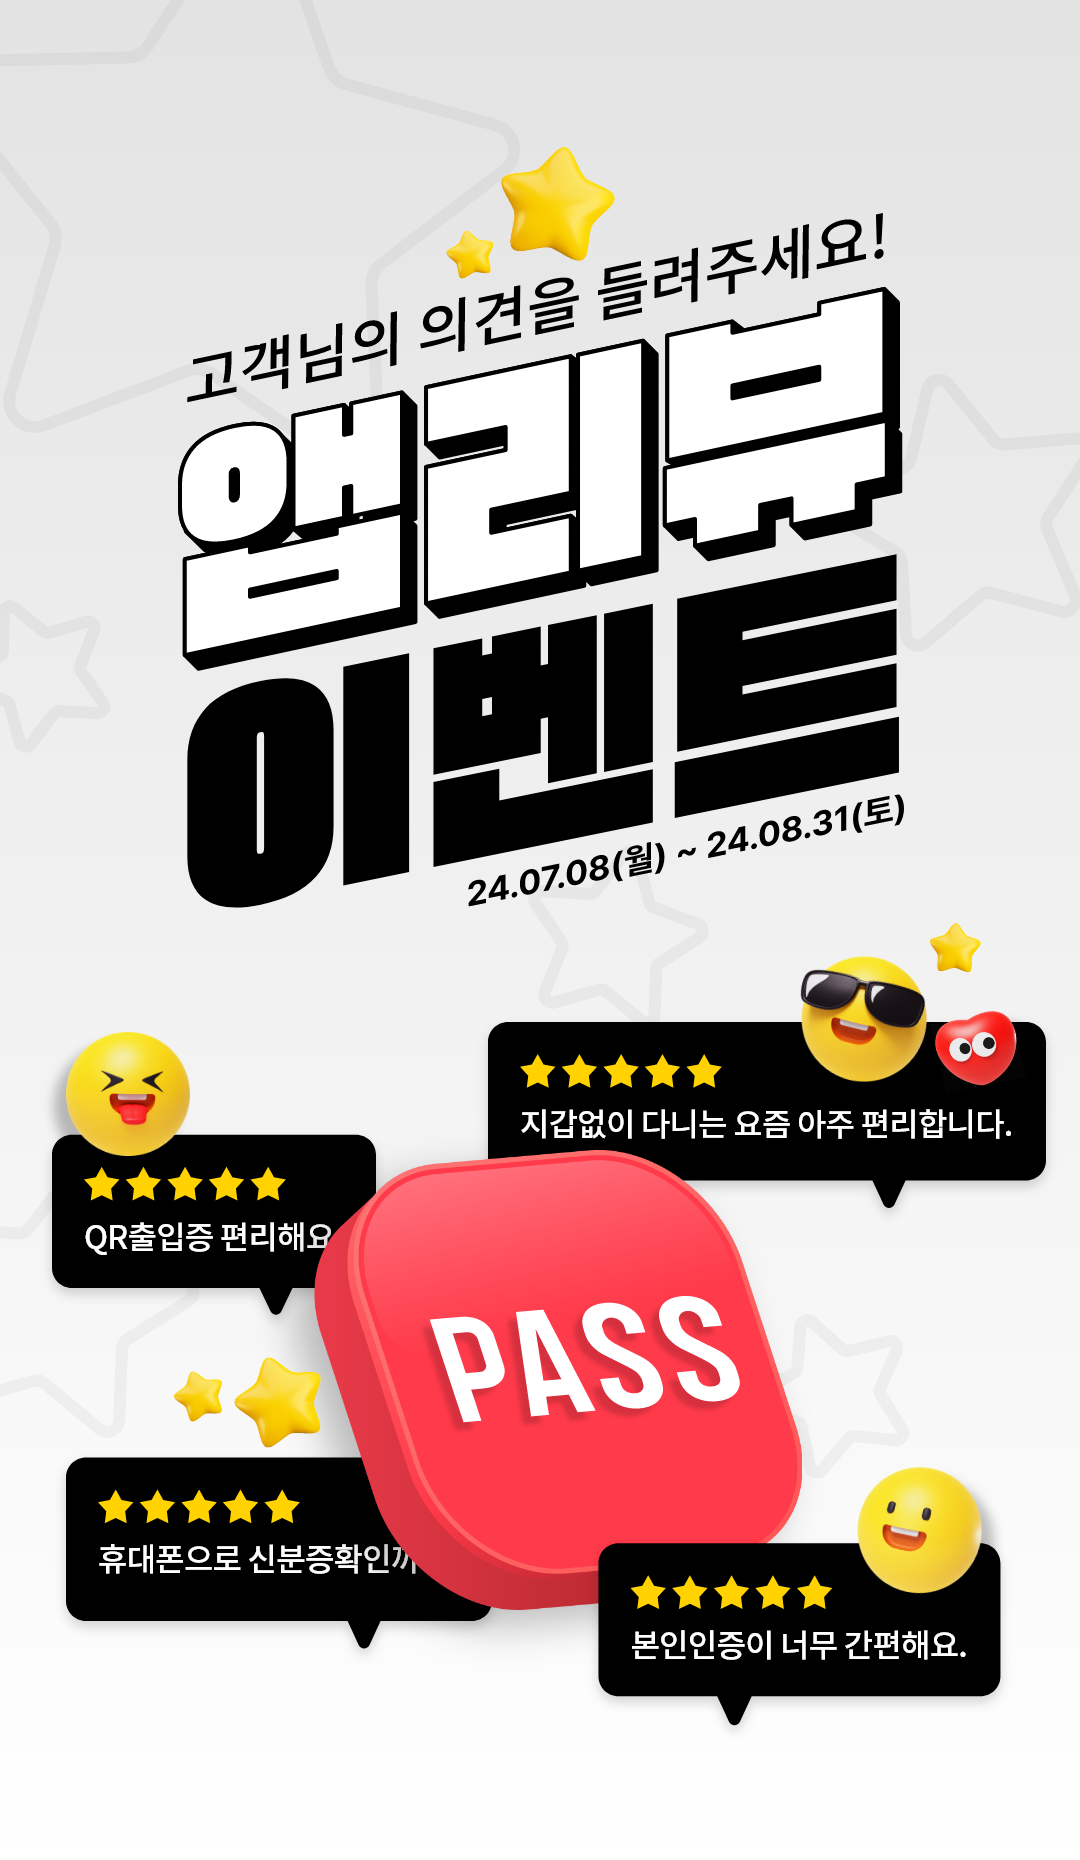
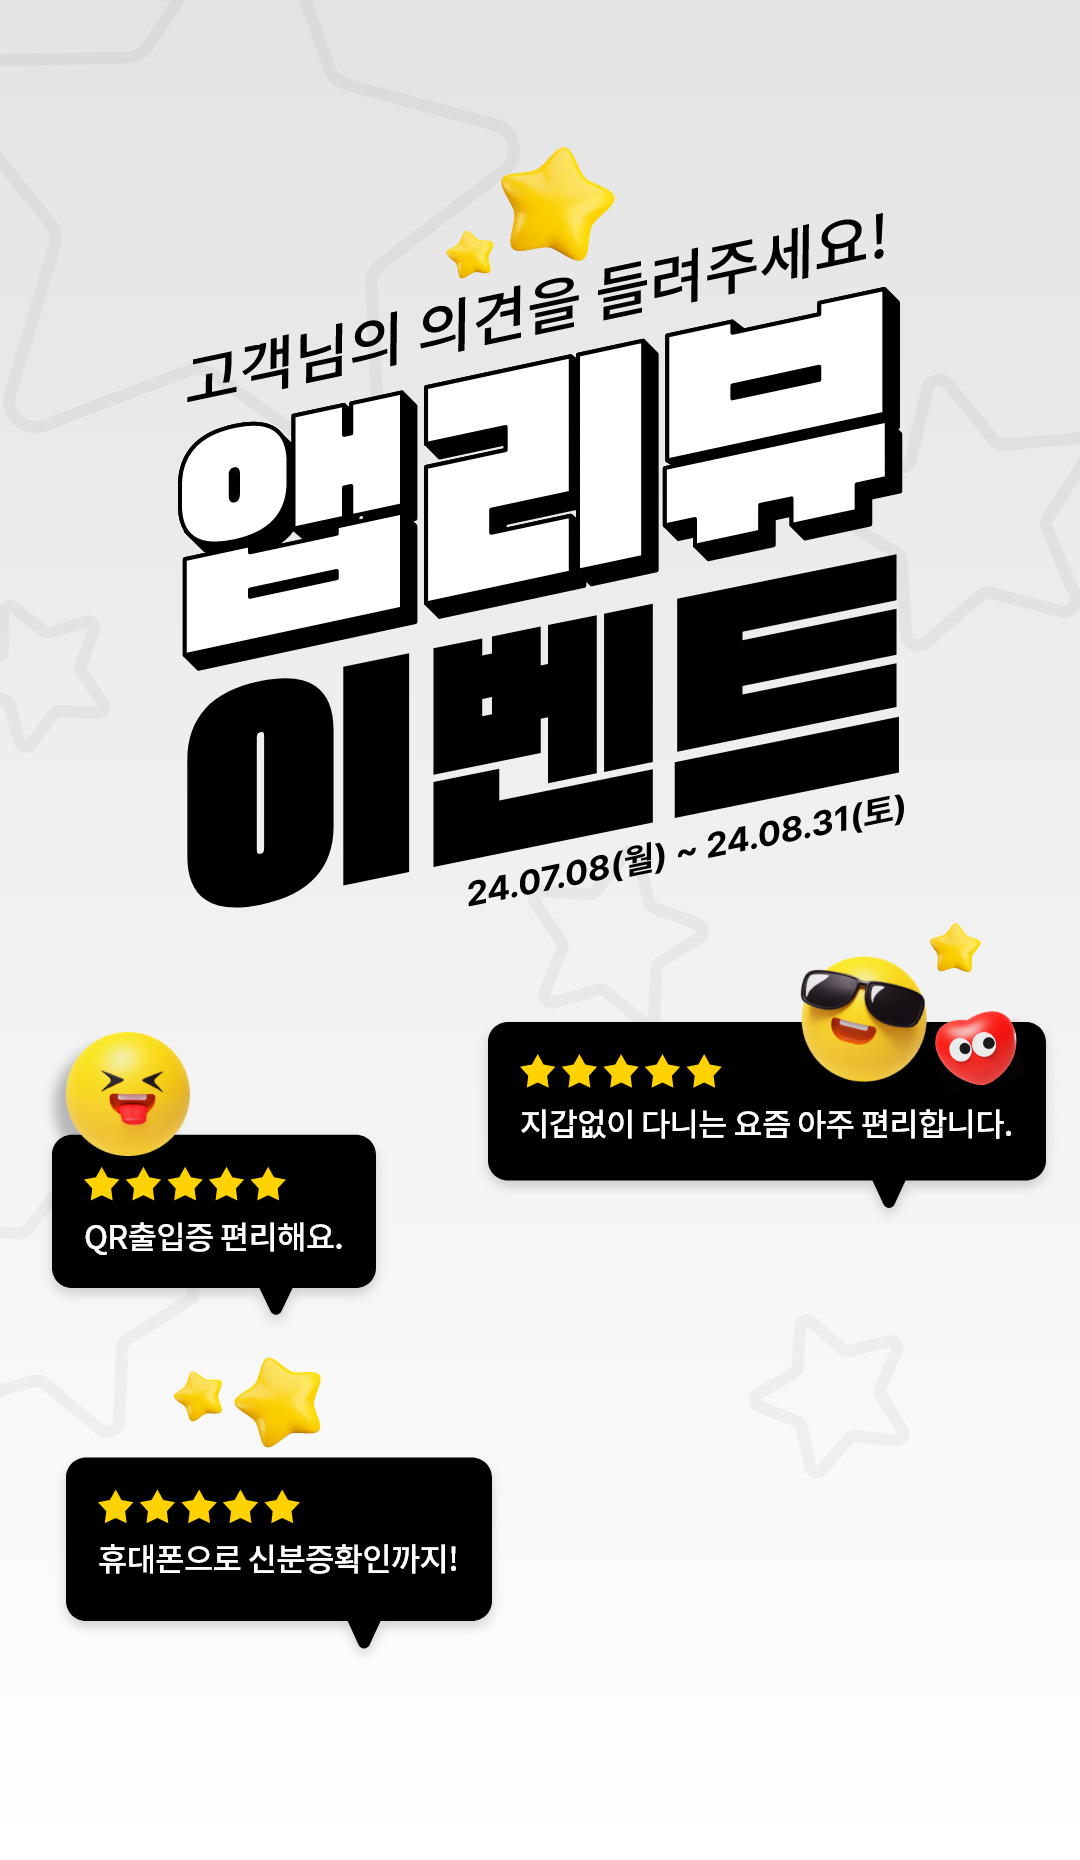
앱리뷰 이벤트 상단 수정.

Changed region(s): [[0.2444, 0.5925, 0.9472, 0.9355]]

diff --git a/event/ev_240701_review/html/ev_review_240701_micro.html b/event/ev_240701_review/html/ev_review_240701_micro.html
@@ -128,7 +128,6 @@
 			<div class="top"><img src="../images/ev_240701_img1.png" alt="앱리뷰 이벤트" />
 				<div class="app_icon"><img src="../images/240701_pass_icon.png" alt=""></div>
 				<div class="deco"><img src="../images/240701_img_deco.png" alt=""></div>
-				<span class="txt">릴레이 프로모션 1</span>
 			</div>
 
 			<div class="howto">
@@ -139,11 +138,6 @@
 							<strong>STEP 01.</strong>
 							<span>스토어에 앱리뷰 남기기</span>
 						</p>
-						<button type="button" title="리뷰 작성하러 가기">
-							<span class="ico"><img src="../images/ico_star.png" alt="별 아이콘"></span>
-							<span class="txt">리뷰 작성하러 가기</span>
-							<span class="ico"><img src="../images/ico_review.png" alt="리뷰 아이콘"></span>
-						</button>
 					</li>
 					<li>
 						<p>
@@ -154,26 +148,14 @@
 					<li>
 						<p>
 							<strong>STEP 03.</strong>
-							<span>앱스토어 닉네임 입력하기</span>
-						</p>
-					</li>
-					<li>
-						<p>
-							<strong>STEP 04.</strong>
-							<span>버튼을 눌러 이벤트 응모하기</span>
+							<span>PASS 이벤트 페이지에서<br />
+								스토어 닉네임 입력 후<br />
+								이벤트 응모하기</span>
 						</p>
 					</li>
 				</ol>
-				<div class="ipt_wrap">
-					<input type="text" placeholder="앱 스토어 닉네임을 입력해주세요(필수)" />
-					<button type="button" title="이벤트 응모하기">
-						<span class="ico"><img src="../images/ico_pop.png" alt="폭죽 아이콘"></span>
-						<span class="txt">이벤트 응모하기</span>
-						<span class="ico"><img src="../images/ico_present.png" alt="행운상자 아이콘"></span>
-					</button>
-				</div>
 
-				<!-- <div class="gif_sample"><img src="../images/appreviw_micro_sample.gif" alt=""></div> -->
+				<div class="gif_sample"><img src="../images/appreviw_micro_sample.gif" alt=""></div>
 
 			</div>
 			<!-- // howto -->
@@ -258,46 +240,17 @@
 			</div>
 			<!-- // ev_benefit_wrap -->
 
-			<div class="footer_alert">
-				<div class="tit"><strong>꼭 확인해주세요.</strong></div>
-				<div class="footer_group">
-					<div class="sub_tit"><strong>[이벤트 응모]</strong></div>
-					<ul>
-						<li><p>본 이벤트는 만 19세 이상만 참여 가능합니다.</p></li>
-						<li><p>본 이벤트는 1인 1회 응모 가능하며, 중복 당첨되지 않습니다.</p></li>
-						<li><p>이벤트에 응모하셨더라도 앱 리뷰를 작성하지 않으신 경우 이벤트 참여가 인정되지 않습니다.</p></li>
-						<li><p>이벤트 참여 후 U+ 통신사를 해지하거나 휴대폰 명의 또는 번호를 변경하는 경우 이벤트 응모가 취소됩니다. </p></li>
-						<li><p>이벤트 참여를 위해 수집된 개인정보는 경품 발송 이외의 목적으로 활용되지 않으며, 이벤트 종료 후 일괄 파기됩니다.</p></li>
-					</ul>
-				</div>
-
-				<div class="footer_group">
-					<div class="sub_tit"><strong>[이벤트 당첨]</strong></div>
-					<ul>
-						<li><p>당첨자 발표는 9월 중 PASS앱에서 진행합니다.</p></li>
-						<li><p>이벤트 당첨 여부는 ‘이벤트+ > 이벤트 > 당첨자 발표‘ 에서 확인 가능합니다.</p></li>
-						<li><p>이벤트 경품 및 내용은 변경될 수 있으며, 실제 경품은 상기 이미지와 상이할 수 있습니다.</p></li>
-						<li><p>실물 경품의 경우 경품 수령 의사 및 주소지 확인을 위해 개별 연락 예정입니다.</p></li>
-						<li><p>이벤트 경품은 양도 불가하며, 경품 수령 의사를 밝히지 않는 경우 당첨이 취소됩니다.</p></li>
-						<li><p>5만 원 초과 경품은 제세 공과금(22%)이 발생하며 해당 비용은 U+에서 부담합니다. </p></li>
-						<li><p>모바일 기프티콘은 등록된 휴대폰 번호로 발송됩니다.</p></li>
-						<li><p>정보 오기재로 인한 경품 반송 및 분실은 당사에서 책임지지 않으며, 재발송 되지 않습니다.</p></li>
-						<li><p>이벤트에 대한 더 자세한 사항은 고객센터(114)로 문의 바랍니다.</p></li>
-					</ul>	
-				</div>
-			</div>
-
-			<!-- <div class="passApp_wrap">
+			<div class="passApp_wrap">
 				<span class="ico"><img src="../images/img_app.png" alt="PASS앱"></span>
 				<p>이벤트 응모는<br />
 					<strong>PASS앱</strong>에서 가능합니다</p>
-			</div> -->
+			</div>
 
 			
-			<!-- <div class="btm_btn">
+			<div class="btm_btn">
 				<button type="button" class="btn_btn1"><span>리뷰 작성하러 가기</span></button>
 				<button type="button" class="btn_btn2"><span>PASS 바로가기</span></button>
-			</div> -->
+			</div>
 
 		</div><!-- // ev_240701 -->
 
